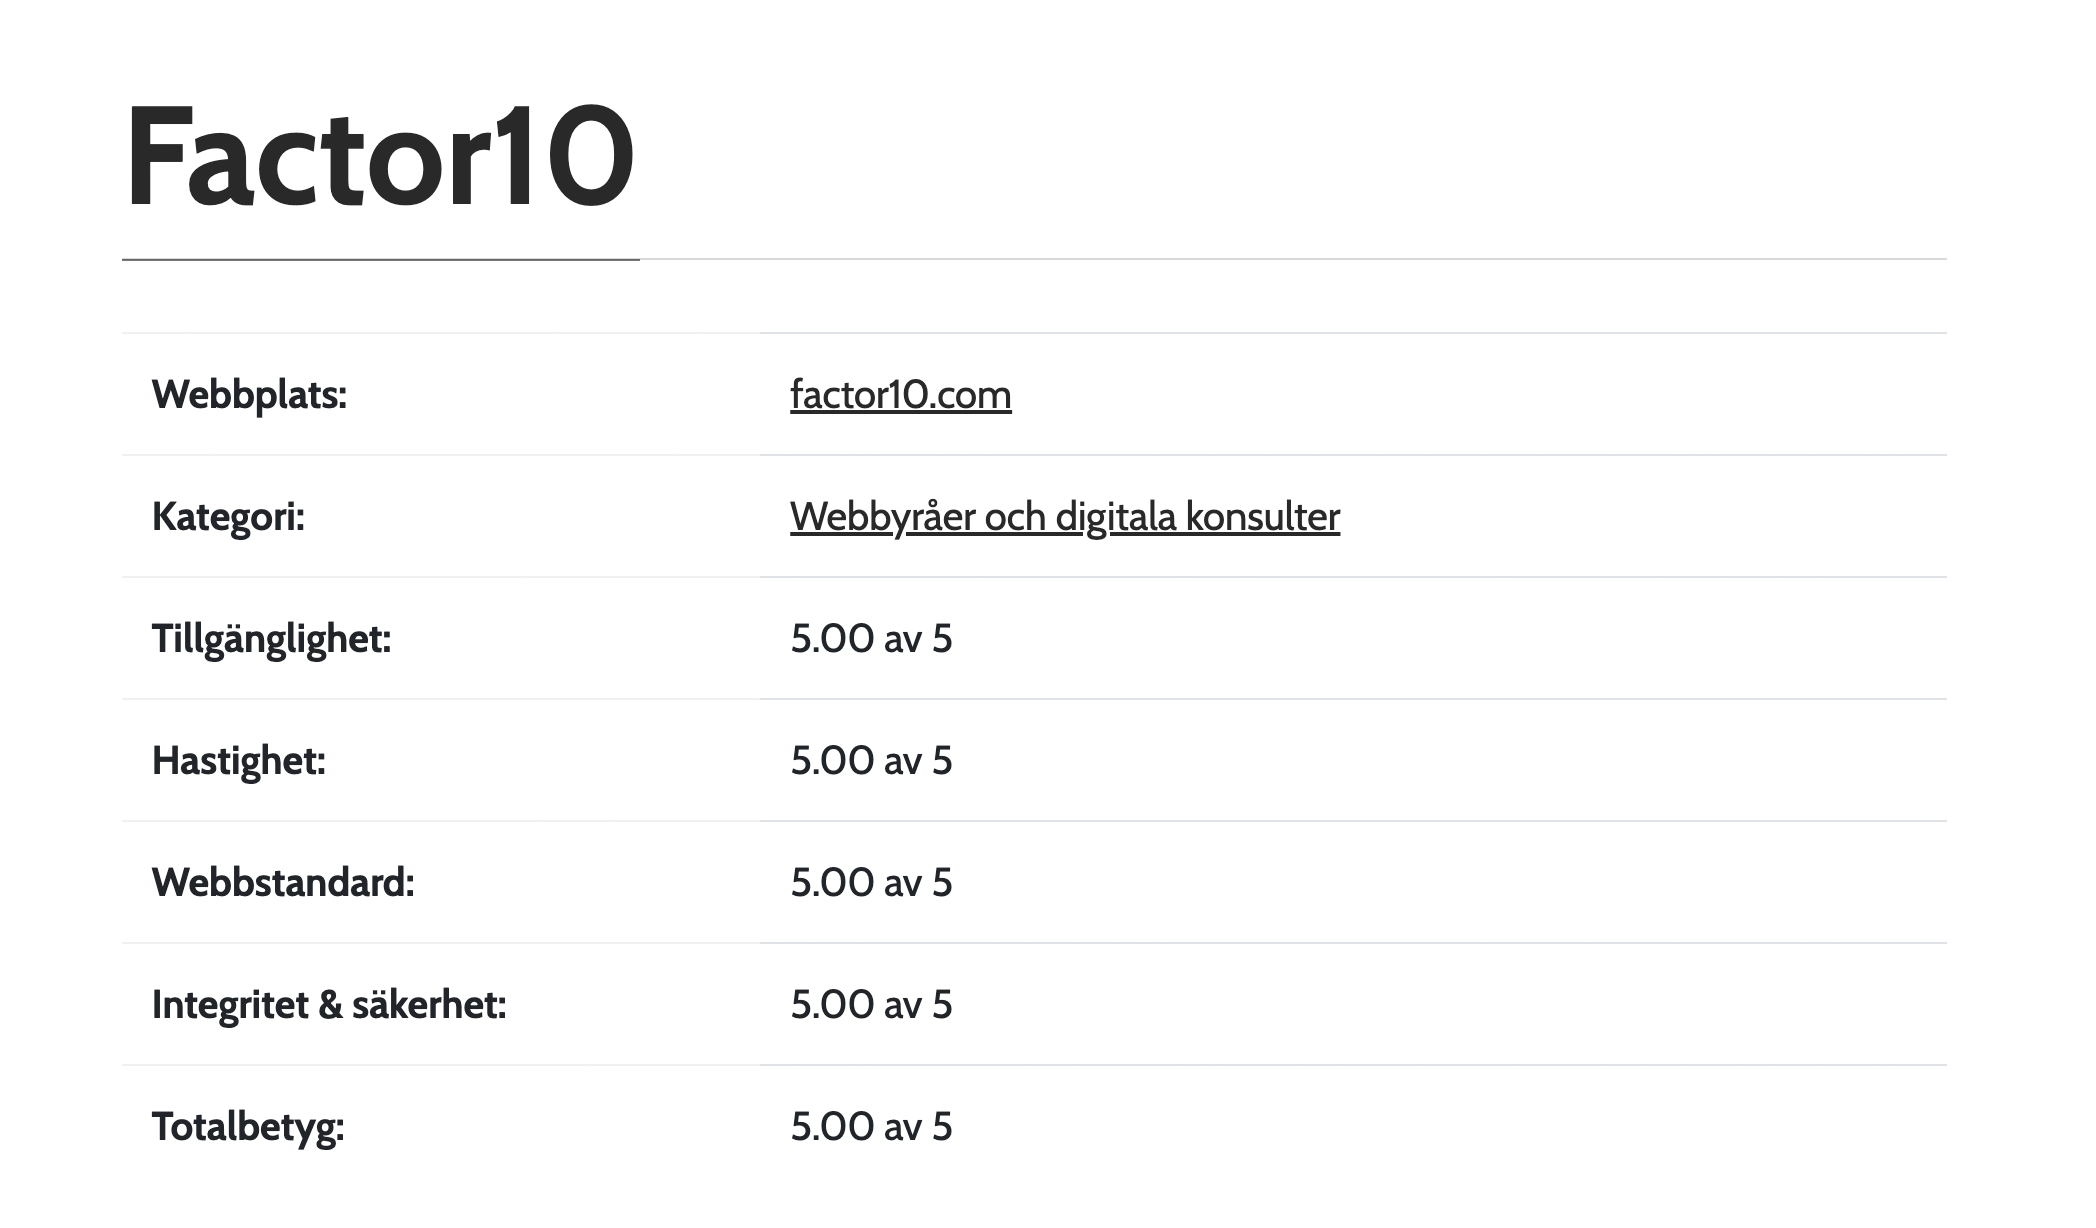
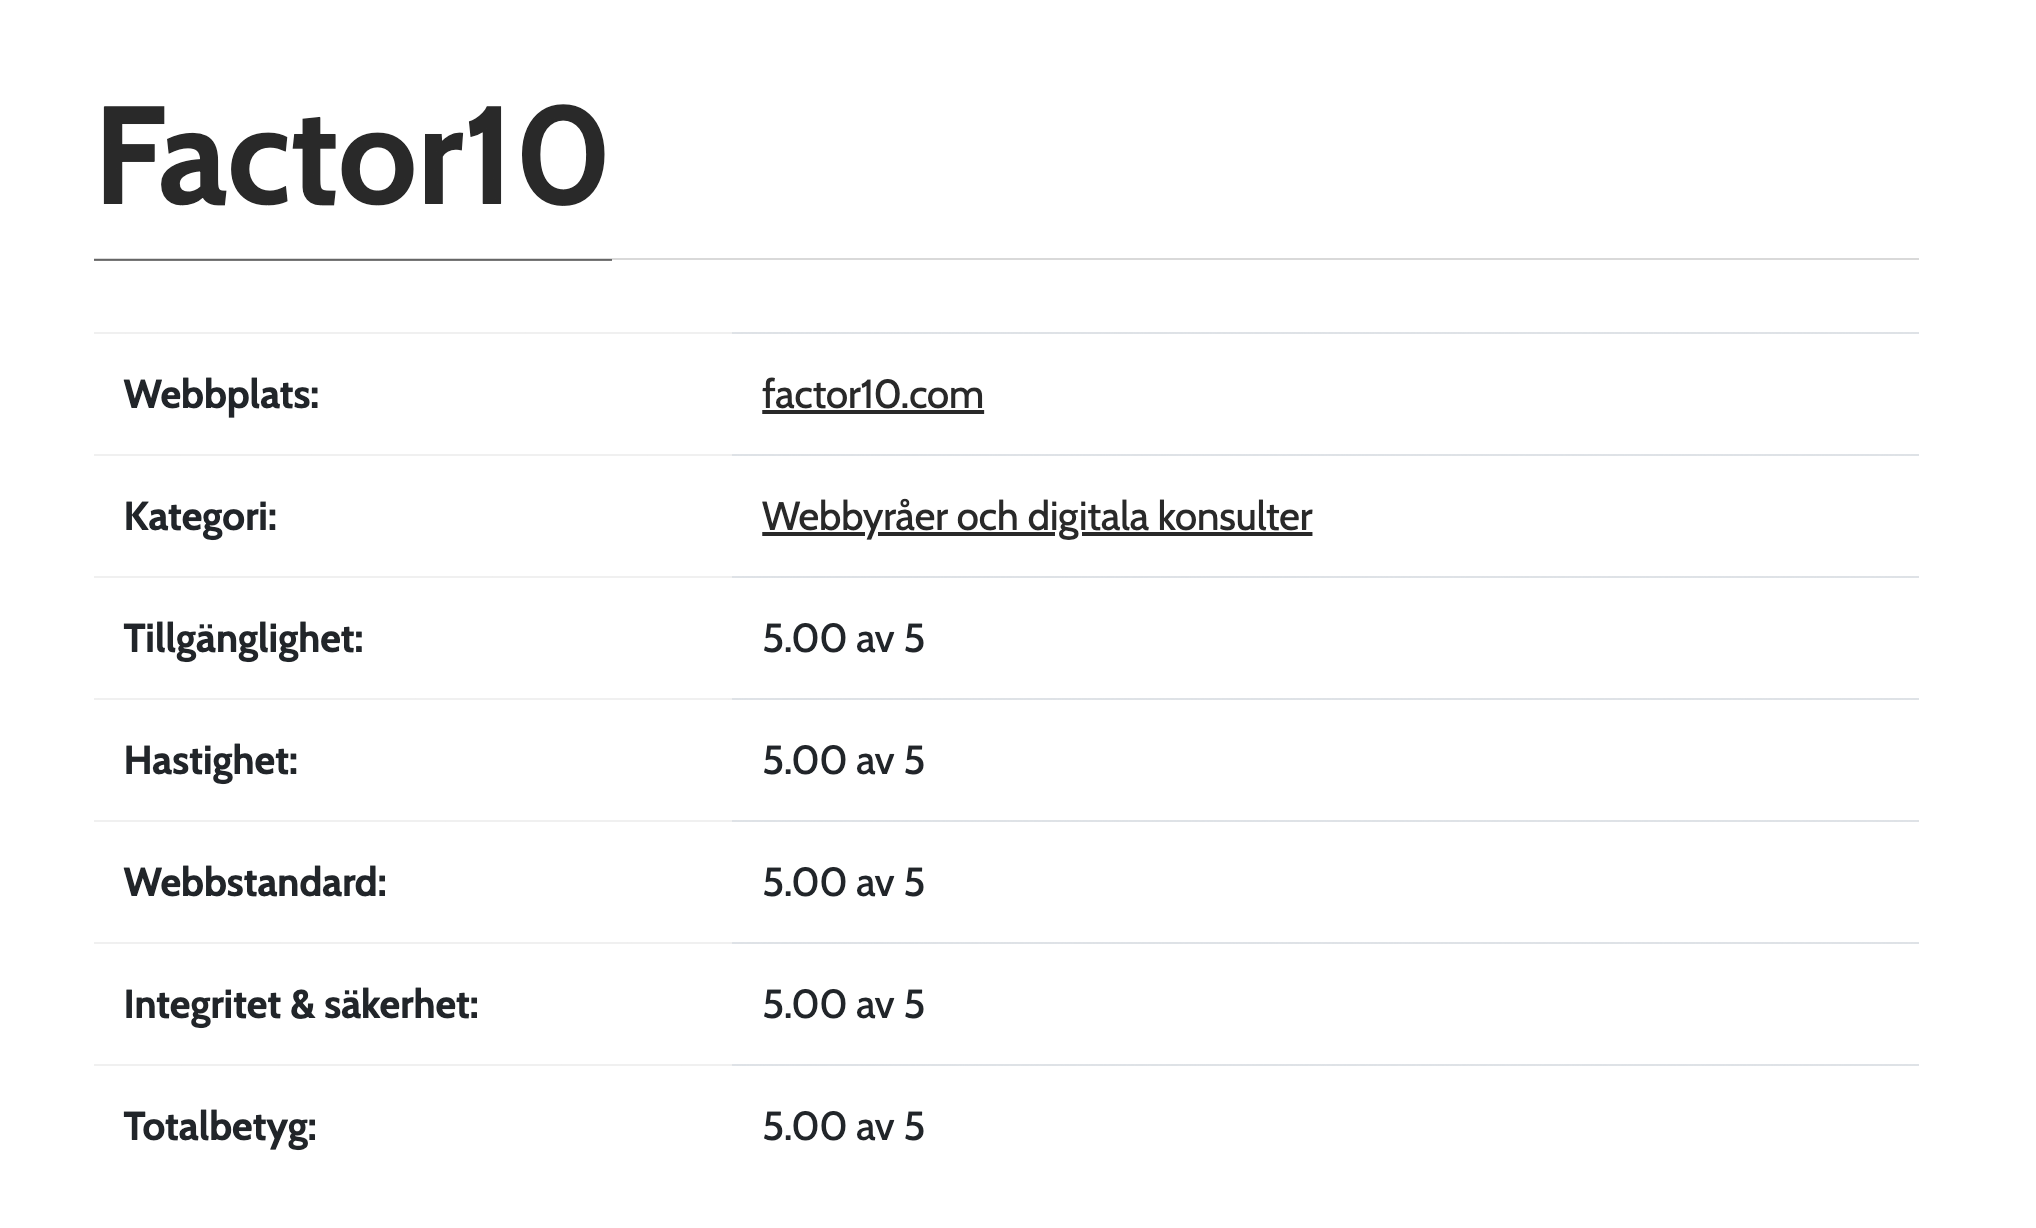
fix(post): image path
Adjuested the image slightly so that it gets a new name.
I am doing this as I suspect that github pages is not happy with the image name.

diff --git a/docs/striving-for-performance-and-design-harmony-in-web-development/index.html b/docs/striving-for-performance-and-design-harmony-in-web-development/index.html
@@ -65,7 +65,7 @@
         <p>In modern web development, a fine balance between performance and user-centric design is key. It doesn't just enhance visitor retention; it deepens their interaction with the content. My recent project provided me a deep dive into achieving this delicate balance. Here is a recount of my experience and the insights that I've gained.</p>
 <h2>The Task at Hand</h2>
 <p>The project involved transforming a site initially built using 11ty and Forestry CMS. The goal was clear: transitioning to Cloudcannon and securing top-notch performance metrics across the board.</p>
-<p><picture><source type="image/avif" srcset="/striving-for-performance-and-design-harmony-in-web-development/__azsOsEo7-300.avif 300w, /striving-for-performance-and-design-harmony-in-web-development/__azsOsEo7-600.avif 600w, /striving-for-performance-and-design-harmony-in-web-development/__azsOsEo7-750.avif 750w, /striving-for-performance-and-design-harmony-in-web-development/__azsOsEo7-900.avif 900w, /striving-for-performance-and-design-harmony-in-web-development/__azsOsEo7-1200.avif 1200w, /striving-for-performance-and-design-harmony-in-web-development/__azsOsEo7-1400.avif 1400w" sizes="100vw"><source type="image/jpeg" srcset="/striving-for-performance-and-design-harmony-in-web-development/__azsOsEo7-300.jpeg 300w, /striving-for-performance-and-design-harmony-in-web-development/__azsOsEo7-600.jpeg 600w, /striving-for-performance-and-design-harmony-in-web-development/__azsOsEo7-750.jpeg 750w, /striving-for-performance-and-design-harmony-in-web-development/__azsOsEo7-900.jpeg 900w, /striving-for-performance-and-design-harmony-in-web-development/__azsOsEo7-1200.jpeg 1200w, /striving-for-performance-and-design-harmony-in-web-development/__azsOsEo7-1400.jpeg 1400w" sizes="100vw"><img alt="Website score on webperf" loading="lazy" decoding="async" src="/striving-for-performance-and-design-harmony-in-web-development/__azsOsEo7-300.jpeg" width="1400" height="820"></picture>
+<p><picture><source type="image/avif" srcset="/striving-for-performance-and-design-harmony-in-web-development/Wop_ZSkJqs-300.avif 300w, /striving-for-performance-and-design-harmony-in-web-development/Wop_ZSkJqs-600.avif 600w, /striving-for-performance-and-design-harmony-in-web-development/Wop_ZSkJqs-750.avif 750w, /striving-for-performance-and-design-harmony-in-web-development/Wop_ZSkJqs-900.avif 900w, /striving-for-performance-and-design-harmony-in-web-development/Wop_ZSkJqs-1200.avif 1200w, /striving-for-performance-and-design-harmony-in-web-development/Wop_ZSkJqs-1400.avif 1400w" sizes="100vw"><source type="image/jpeg" srcset="/striving-for-performance-and-design-harmony-in-web-development/Wop_ZSkJqs-300.jpeg 300w, /striving-for-performance-and-design-harmony-in-web-development/Wop_ZSkJqs-600.jpeg 600w, /striving-for-performance-and-design-harmony-in-web-development/Wop_ZSkJqs-750.jpeg 750w, /striving-for-performance-and-design-harmony-in-web-development/Wop_ZSkJqs-900.jpeg 900w, /striving-for-performance-and-design-harmony-in-web-development/Wop_ZSkJqs-1200.jpeg 1200w, /striving-for-performance-and-design-harmony-in-web-development/Wop_ZSkJqs-1400.jpeg 1400w" sizes="100vw"><img alt="Website score on webperf" loading="lazy" decoding="async" src="/striving-for-performance-and-design-harmony-in-web-development/Wop_ZSkJqs-300.jpeg" width="1400" height="844"></picture>
 <em>Website score on <a href="https://webperf.se/">webperf.se</a>, a service that measures the performance of sites in Sweden.</em></p>
 <h2>Crafting the Developer Experience</h2>
 <p>A well crafted website not only looks good but is also built upon pillars of performance, accessibility, and best practices. Here, tools like <a href="https://tailwindcss.com/">Tailwind</a> offer an appealing promise of swift development. However, every tool has its caveats. In the case of Tailwind, it produced CSS with <a href="https://developer.mozilla.org/en-US/docs/Web/CSS/Using_CSS_custom_properties">custom properties</a>, a feature that at that point was yet to be <a href="https://drafts.csswg.org/css-variables/">standardized</a>. Instead of letting this be a setback, I explored alternatives to establish an equally efficient and issue-free developer environment.</p>
